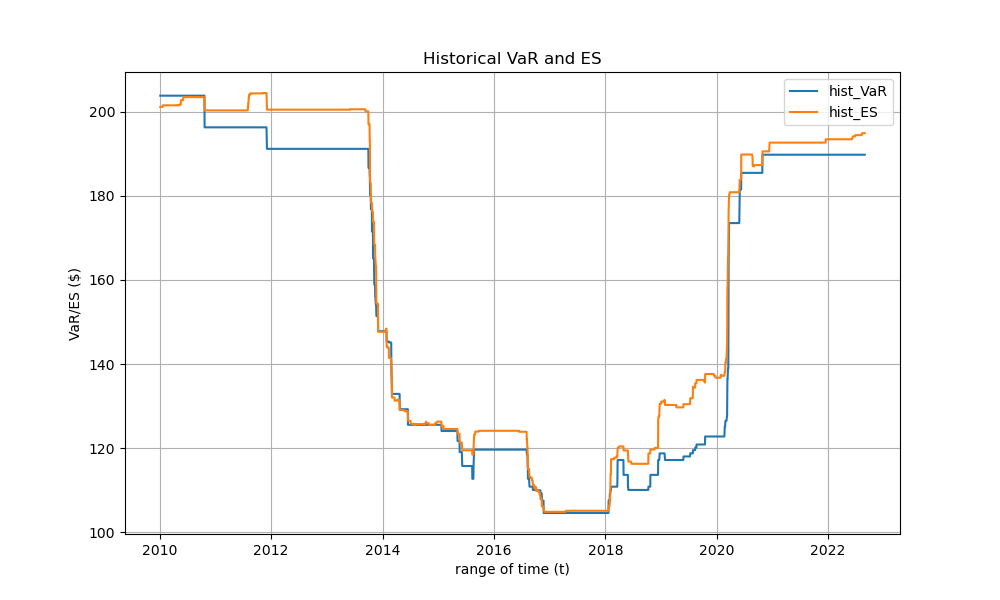
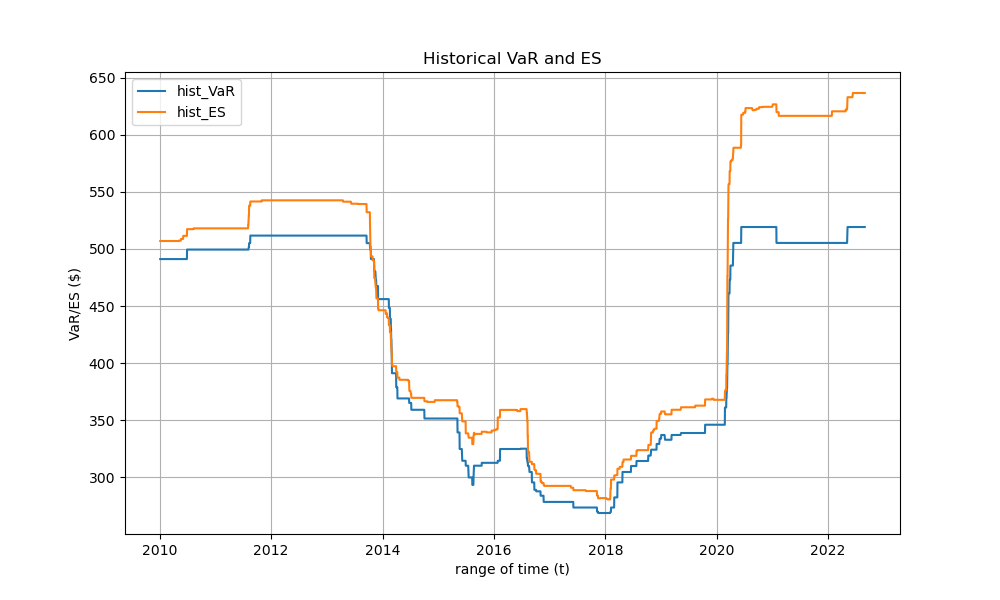
fix error

diff --git a/utils/VaRModel.py b/utils/VaRModel.py
@@ -1,6 +1,5 @@
 from utils.funcs import *
 from datetime import datetime
-# from datetime import timedelta
 from scipy.stats import norm
 import warnings
 warnings.filterwarnings("ignore")
@@ -57,37 +56,40 @@ class varmodel(object):
             df_drift, df_vol = drift_vol(pf_handle['log_rtn'], pf_handle['log_rtn_sq'],
                                          dt, 0, lambd, type='equiv')
         all_drift["portfolio"], all_volatility["portfolio"] = df_drift, df_vol
-
-        cov_all = []
-        corr_all = []
-        if self.calib_weight == 1:
-            for i in range(N):
-                for j in range(i+1,N):
-                    cov = covariance(stock_handle.iloc[:,N+i], stock_handle.iloc[:,N+j], self.dt,
-                                     length, 0, type = "window")
-                    cov_all.append(cov)
-                    corr = correlation(cov, all_volatility.iloc[:,i], all_volatility.iloc[:,j], self.dt)
-                    corr_all.append(corr)
-        elif self.calib_weight == 2:
-            for i in range(N):
-                for j in range(i+1,N):
-                    cov = covariance(stock_handle.iloc[:,N+i], stock_handle.iloc[:,N+j], self.dt,
-                                     0, lambd, type = "equiv")
-                    cov_all.append(cov)
-                    corr = correlation(cov, all_volatility.iloc[:, i], all_volatility.iloc[:, j], self.dt)
-                    corr_all.append(corr)
-        covs = pd.concat(cov_all, axis=1)
-        covs.columns = [x for x in range(N*(N-1)//2)]
-        corrs = pd.concat(corr_all, axis=1)
-        corrs.columns = [x for x in range(N*(N-1)//2)]
-
         self.calib_drift, self.calib_vol = all_drift, all_volatility
-        self.calib_cov = covs
-        self.calib_corr = corrs
+
+        if N > 1:
+            cov_all = []
+            corr_all = []
+            if self.calib_weight == 1:
+                for i in range(N):
+                    for j in range(i+1,N):
+                        cov = covariance(stock_handle.iloc[:,N+i], stock_handle.iloc[:,N+j], self.dt,
+                                         length, 0, type = "window")
+                        cov_all.append(cov)
+                        corr = correlation(cov, all_volatility.iloc[:,i], all_volatility.iloc[:,j], self.dt)
+                        corr_all.append(corr)
+            elif self.calib_weight == 2:
+                for i in range(N):
+                    for j in range(i+1,N):
+                        cov = covariance(stock_handle.iloc[:,N+i], stock_handle.iloc[:,N+j], self.dt,
+                                         0, lambd, type = "equiv")
+                        cov_all.append(cov)
+                        corr = correlation(cov, all_volatility.iloc[:, i], all_volatility.iloc[:, j], self.dt)
+                        corr_all.append(corr)
+            covs = pd.concat(cov_all, axis=1)
+            covs.columns = [x for x in range(N*(N-1)//2)]
+            corrs = pd.concat(corr_all, axis=1)
+            corrs.columns = [x for x in range(N*(N-1)//2)]
+            self.calib_cov = covs
+            self.calib_corr = corrs
 
 
     def cal_param_var(self, pf_type, data_params):
-        assumption = self.params["param_config"]["assumption"]
+        tickers = data_params["stock_config"]["long_tickers"] if pf_type == 1 else data_params["stock_config"][
+            "short_tickers"]
+        N = len(tickers)
+        assumption = self.params["param_config"]["assumption"] if N > 1 else "gbm"
         print("Assumption for parametric model: ", assumption)
         startdate, enddate = self.start, self.end
         res_all = pd.DataFrame(columns=['param_VaR', 'param_ES'])
@@ -157,9 +159,10 @@ class varmodel(object):
     def cal_hist_var(self, pf_type, data_params, pf_log_rtn):
         startdate, enddate = self.start, self.end
         res_all = pd.DataFrame(columns=['hist_VaR', 'hist_ES'])
+        hist_win = self.params['hist_window']
         if pf_type == 1:
-            res_all["hist_VaR"] = historical_var(pf_log_rtn, self.V_0, self.pvar, self.dt, self.calib_win)
-            res_all["hist_ES"] = historical_es(pf_log_rtn, self.V_0, self.pes, self.dt, self.calib_win)
+            res_all["hist_VaR"] = historical_var(pf_log_rtn, self.V_0, self.pvar, self.dt, hist_win)
+            res_all["hist_ES"] = historical_es(pf_log_rtn, self.V_0, self.pes, self.dt, hist_win)
         elif pf_type == 2:
             res_all["hist_VaR"] = historical_var(-pf_log_rtn, self.V_0, self.pvar, self.dt, self.calib_win)
             res_all["hist_ES"] = historical_es(-pf_log_rtn, self.V_0, self.pes, self.dt, self.calib_win)
@@ -175,7 +178,9 @@ class varmodel(object):
     def cal_mc_var(self, pf_type, data_params):
         startdate, enddate = self.start, self.end
         res_all = pd.DataFrame(columns = ['mc_VaR', 'mc_ES'])
-        assumption = self.params["mc_config"]["assumption"]
+        tickers = data_params["stock_config"]["long_tickers"]
+        N = len(tickers)
+        assumption = self.params["mc_config"]["assumption"] if N > 1 else 'gbm'
         print("Assumption for Monte Carlo model: ", assumption)
 
         n_paths = self.params["mc_config"]["n_paths"]
@@ -194,6 +199,7 @@ class varmodel(object):
                                       self.calib_drift.loc[dateindex[i], "portfolio"], self.pes, longboolean = pbool, stat='es')[1]
             res_all["mc_VaR"] = pf_var
             res_all["mc_ES"] = pf_es
+            res_all.index = self.calib_drift.loc[startdate:enddate].index
         else:
             if pf_type == 1:
                 tickers = data_params["stock_config"]["long_tickers"]
@@ -239,7 +245,7 @@ class varmodel(object):
 
             res_all["mc_VaR"] = pf_var
             res_all["mc_ES"] = pf_es
-
+            res_all.index = self.calib_drift.loc[startdate:enddate].index
         self.mc_result = res_all
 
         if self.plot_figure:

diff --git a/system.py b/system.py
@@ -1,24 +1,19 @@
 import pandas as pd
 import numpy as np
-from datetime import datetime
-from datetime import timedelta
-import matplotlib.pyplot as plt
-from scipy.stats import norm
 from utils.preprocess import *
-from utils.funcs import *
 import utils.VaRModel as Model
 import warnings
 warnings.filterwarnings("ignore")
 
 """
-# portfolio_type = 1
-# use_history = False
-# total_position = 10000  # int (unit: dollar), default: 10000
-# tickers = ['BA', 'NOC']
-# weight = 'equal'  # 'equal' or 'custom' (default: 'equal' and custom input will be ignored)
-# custom_weight = [0.4, 0.6] # long: positive float sum to 1; short: negative float sum to -1
-# horizon = 5  # int (unit: day), default: 5 (5-day VaR/ES)
-# percentile = 0.99  # float (range (0,1)): percentile of
+portfolio_type = 1
+use_history = False
+total_position = 10000  # int (unit: dollar), default: 10000
+tickers = ['BA', 'NOC']
+weight = 'equal'  # 'equal' or 'custom' (default: 'equal' and custom input will be ignored)
+custom_weight = [0.4, 0.6] # long: positive float sum to 1; short: negative float sum to -1
+horizon = 5  # int (unit: day), default: 5 (5-day VaR/ES)
+percentile = 0.99  # float (range (0,1)): percentile of
 """
 
 
@@ -30,6 +25,7 @@ def setup(params, portfolio_type):
         tk_all = [params['stock_config']['long_tickers'], []]
         weights = [1 / len(tk_all[0])] * len(tk_all[0]) if params["stock_config"]["long_weight"] == "equal" else \
             data_params["stock_config"]["long_custom_weight"]
+        print(weights)
         num_stock = long_nstock
     # 2: Short only portfolio
     elif portfolio_type == 2:

diff --git a/utils/preprocess.py b/utils/preprocess.py
@@ -1,4 +1,3 @@
-import datetime as dt
 from datetime import datetime, timedelta
 import pandas as pd
 import numpy as np
@@ -171,6 +170,7 @@ def load_data(tickers=None, startdate=None, enddate=None, use_history = False):
             all_stock = yf.download(tk_stock, start = startdate, end = enddate)
             df_stock = pd.DataFrame(all_stock.iloc[:,:len(tk_stock)].values,
                                     index = all_stock.index, columns= tk_stock)
+            print(df_stock.head())
         else:
             df_stock = None
 
@@ -205,14 +205,9 @@ def stock_handle(df_price, weights):
 
     df_ret = df_price.apply(log_return)
     df_ret_sq = df_ret.apply(log_return_sq)
-
-    # if params['stock_config']['weight'] == 'equal':
-    #     pf_ret = df_ret.sum(axis=1)/df_ret.shape[1]
-    #     pf_ret_sq = pf_ret.apply(log_return_sq)
-    # elif params['stock_config']['weight'] == 'custom':
     weights = np.array(weights)
     if np.sum(weights) == 1 or np.sum(weights) == 0:
-        pf_ret = df_ret.apply(lambda x: np.sum(x * weights), axis=1) / df_ret.shape[1]
+        pf_ret = df_ret.apply(lambda x: np.sum(x * weights), axis=1)
         pf_ret_sq = pf_ret.apply(log_return_sq)
     else:
         raise ValueError("Weight scheme not acceptable.")
@@ -226,6 +221,3 @@ def stock_handle(df_price, weights):
 
 def option_handle():
     pass
-
-#
-# stock, option = load_data(['AAPL', 'GM'], [1,2], '2022-01-01', '2022-11-30', use_history=False)

diff --git a/utils/funcs.py b/utils/funcs.py
@@ -1,12 +1,8 @@
-import pandas as pd
 import numpy as np
-from datetime import datetime
-# from datetime import timedelta
 import matplotlib.pyplot as plt
 from scipy.stats import norm
 import warnings
 warnings.filterwarnings("ignore")
-import os
 
 def param_var(x, T, p, mu, vol):
     var = x - x*np.exp(vol*np.sqrt(T)*norm.ppf(1-p) + (mu-vol**2/2)*T)
